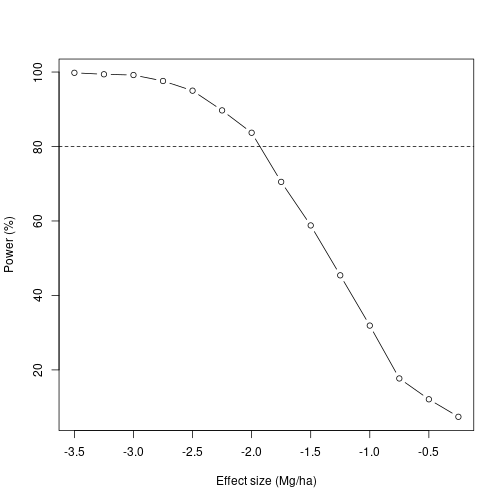
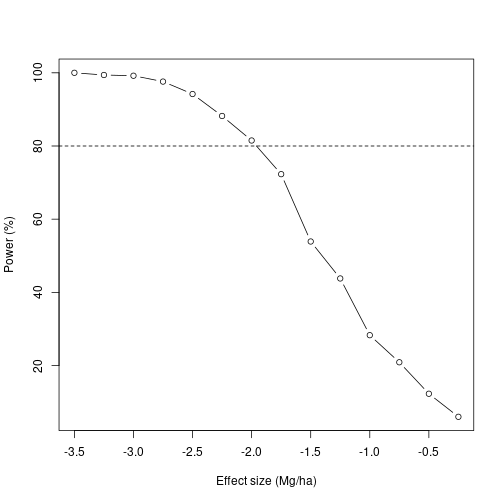
Updates.

diff --git a/content/post/power.md b/content/post/power.md
@@ -173,7 +173,7 @@ table(replicate(1000,
 ```
 ## 
 ## FALSE  TRUE 
-##   359   641
+##   331   669
 ```
 
 You can see, this study has much lower then the standard 80% power, even with very optimistic assumptions about the measurement error. What if we use a still optimistic but more realistic measurement error of 0.5 Mg/ha?
@@ -189,7 +189,7 @@ table(replicate(1000,
 ```
 ## 
 ## FALSE  TRUE 
-##   644   356
+##   641   359
 ```
 
 It becomes appearant that this study did not have good chances of detecting an effect in this system. Hence, the conclusion of "no difference" is suspect.
